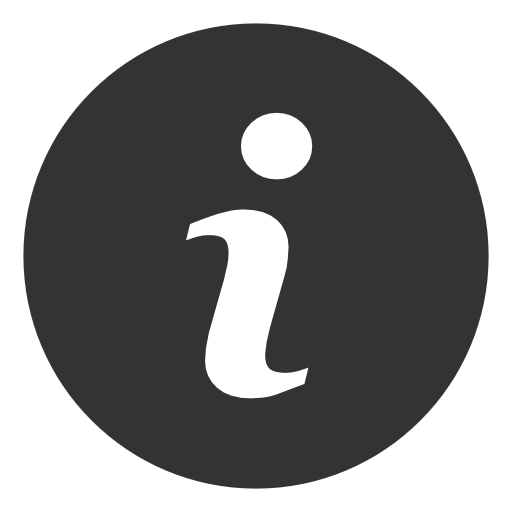
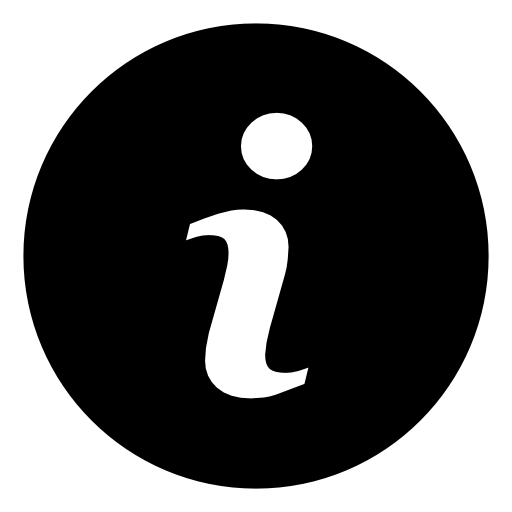
다크 테마작업

diff --git a/src/views/HeaderView.vue b/src/views/HeaderView.vue
@@ -12,6 +12,7 @@ export default {
       langFloat: "langFloat",
       mobileFloat: "mobileFloat",
       menuItem: "menuItem",
+      menuItemDis: "menuItem disabled",
     };
   },
   methods: {
@@ -38,19 +39,22 @@ export default {
       store.changeTheme(nextTheme);
       location.reload();
     },
+    construction: () => {
+      alert('Translation is under construction')
+    }
   },
   created() {
     const store = useLangStore();
     if (!store.lang) {
       let lang = navigator.language;
 
-      if (lang === "ko" || lang === "ko-kr" || lang === "ko-KR") {
+      //if (lang === "ko" || lang === "ko-kr" || lang === "ko-KR") {
         store.changeLang(Lang.KO);
-      } else if (lang === "ja" || lang === "ja-jp" || lang === "ja-JP") {
+      /*} else if (lang === "ja" || lang === "ja-jp" || lang === "ja-JP") {
         store.changeLang(Lang.JP);
       } else {
         store.changeLang(Lang.EN);
-      }
+      }*/
     }
   },
 };
@@ -76,8 +80,8 @@ export default {
 
   <div :class="langFloat" id="langMenu">
     <div :class="menuItem" @click="changeLang(0)">한국어</div>
-    <div :class="menuItem" @click="changeLang(1)">English</div>
-    <div :class="menuItem" @click="changeLang(2)">日本語</div>
+    <div :class="menuItemDis" @click="construction()">English</div>
+    <div :class="menuItemDis" @click="construction()">日本語</div>
     <div :class="menuItem" @click="closeLangMenu">
       <font-awesome-icon icon="fa-solid fa-circle-xmark" />
     </div>
@@ -163,6 +167,11 @@ export default {
   color: white;
   text-decoration: none;
   cursor: pointer;
+}
+
+.disabled {
+  color: lightgray !important;
+  text-decoration: line-through;
 }
 
 .menuText:hover {

diff --git a/src/components/project/ProjItem.vue b/src/components/project/ProjItem.vue
@@ -1,6 +1,7 @@
 <script lang="ts">
 import type ProjItem from "@/data/project/projectItem";
 import { useLangStore } from "@/stores/lang";
+import { useThemeStore } from "@/stores/theme";
 import type { PropType } from "vue";
 
 export default {
@@ -9,8 +10,9 @@ export default {
   },
   data: () => {
     const lang = useLangStore().lang as "ko" | "jp" | "en";
+    const theme = useThemeStore().theme
     return {
-      wrap: "wrap",
+      wrap: theme === 'light' ? "wrap wrapLight" : "wrap wrapDark",
       header: "header",
       headerLeft: "headerLeft",
       icon: "icon",
@@ -18,7 +20,7 @@ export default {
       title: "title",
       subtitle: "subtitle",
       type: "type",
-      bottomWrap: "bottomWrap",
+      bottomWrap: theme === 'light' ? "bottomWrap bottomLight" : "bottomWrap bottomDark",
       itemTitle: "itemTitle",
       bottomItem: "bottomItem",
       itemImgWrap: "itemImgWrap",
@@ -105,8 +107,15 @@ export default {
 <style scoped>
 .wrap {
   width: 100%;
-  background-color: #efefef;
   border-radius: 10px;
+}
+
+.wrapLight {
+  background-color: #efefef;
+}
+
+.wrapDark {
+  background-color: #101010;
 }
 
 .header {
@@ -145,12 +154,32 @@ export default {
 }
 
 .bottomWrap {
-  background-color: #ffffff;
   margin: var(--pval);
   padding: var(--pval);
   border-radius: 10px;
   visibility: var(--isOpen);
   height: var(--height);
+}
+
+.bottomLight {
+  background-color: #ffffff;
+}
+
+.bottomLight a {
+  color: darkblue;
+}
+
+.bottomLight a:checked {
+  color: darkblue;
+}
+
+.bottomDark {
+  background-color: #000000;
+  border: solid 1px #aaaaaa;
+}
+
+.bottomDark a {
+  color: yellow;
 }
 
 .itemTitle {

diff --git a/src/components/tech/TechBox.vue b/src/components/tech/TechBox.vue
@@ -1,6 +1,7 @@
 <script lang="ts">
 import type { TechItem } from "@/data/tech/techItem";
 import { useLangStore } from "@/stores/lang";
+import { useThemeStore } from "@/stores/theme";
 import type { PropType } from "vue";
 import TechItemVue from "./TechItem.vue";
 
@@ -11,10 +12,11 @@ export default {
   components: { TechItemVue },
   data: function () {
     const lang = useLangStore().lang;
+    const theme = useThemeStore().theme
     return {
       box: "box",
-      titleBox: "titleBox",
-      detailBox: "detailBox",
+      titleBox: theme === 'light' ? "titleBox titleLight" : "titleBox titleDark",
+      detailBox: theme === 'light' ? "detailBox detailLight" : "detailBox detailDark",
       techItemDetails:
         lang === "ko"
           ? this.$props.item!.details.ko
@@ -43,7 +45,6 @@ export default {
 }
 
 .titleBox {
-  background-color: #dfdfdf;
   border-radius: 10px 10px 0 0;
   padding: 20px;
   font-weight: bold;
@@ -51,9 +52,20 @@ export default {
   line-height: 24px;
 }
 
+.titleLight {
+  background-color: #dfdfdf;}
+
+.titleDark{
+  background-color: #121212;}
+
 .detailBox {
-  background-color: #efefef;
   border-radius: 10px;
   margin: 10px;
 }
+
+.detailLight {
+  background-color: #efefef;}
+
+.detailDark{
+  background-color: #010101;}
 </style>

diff --git a/src/views/AboutView.vue b/src/views/AboutView.vue
@@ -2,17 +2,20 @@
 import TxtAbout from "@/data/text/about";
 import WorkExp from "@/components/about/WorkExp.vue";
 import { Lang, useLangStore } from "@/stores/lang";
+import { useThemeStore } from "@/stores/theme";
 
 export default {
   name: "About",
   components: { WorkExp },
   data() {
     const lang = useLangStore().lang;
+    const theme = useThemeStore().theme;
+
     return {
       about: "about",
       title: "title",
       aboutWrapper: "aboutWrapper",
-      aboutBox: "aboutBox",
+      aboutBox: theme === 'light' ? "aboutBox aboutLight" : "aboutBox aboutDark",
       subtitle: "subtitle",
       content: "content",
       contentWrap: "contentWrap",
@@ -97,11 +100,18 @@ export default {
 }
 
 .aboutBox {
-  background-color: #dfdfdf;
   width: 90%;
   max-width: 1024px;
   border-radius: 10px;
   padding: 10px;
+}
+
+.aboutLight {
+  background-color: #dfdfdf;
+}
+
+.aboutDark {
+  background-color: #121212;
 }
 
 .subtitle {

diff --git a/src/views/MainView.vue b/src/views/MainView.vue
@@ -26,24 +26,28 @@ export default {
   <div :class="view">
     <MainButton
       iconUrl="/main/icon_about.png"
+      iconUrlWhite="/main/icon_about_white.png"
       text="About"
       :desc="TxtMain.btn.about"
       href="/about"
     />
     <MainButton
       iconUrl="/main/icon_tech.png"
+      iconUrlWhite="/main/icon_tech_white.png"
       text="Tech Stack"
       :desc="TxtMain.btn.tech"
       href="/tech"
     />
     <MainButton
       iconUrl="/main/icon_proj.png"
+      iconUrlWhite="/main/icon_proj_white.png"
       text="Project"
       :desc="TxtMain.btn.proj"
       href="/project"
     />
     <MainButton
       iconUrl="/main/icon_link.png"
+      iconUrlWhite="/main/icon_link_white.png"
       text="Link"
       :desc="TxtMain.btn.link"
       href="/link"

diff --git a/src/components/main/MainButton.vue b/src/components/main/MainButton.vue
@@ -4,6 +4,7 @@ import { useThemeStore } from "@/stores/theme";
 export default {
   props: {
     iconUrl: String,
+    iconUrlWhite: String,
     text: String,
     desc: String,
     href: String,
@@ -29,7 +30,7 @@ export default {
 <template>
   <button :class="btnAll" @click="moveToLink">
     <div :class="btnTop">
-      <img :src="iconUrl" />
+      <img :src="theme === 'light' ? iconUrl : iconUrlWhite " />
       <span>{{ text }}</span>
     </div>
     <div :class="btnBottom">
